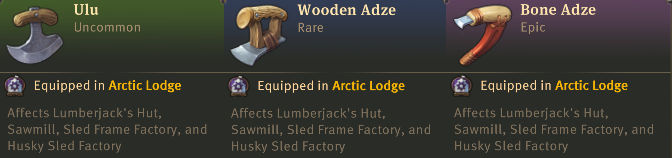
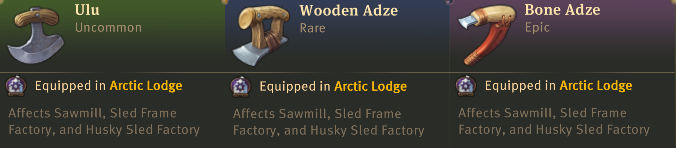
1

diff --git a/item_overhaul.md b/item_overhaul.md
@@ -1338,11 +1338,11 @@
 - <details><!-- Arctic Lumberjack/Charcoal Kiln -->
   <summary><img src="./doc/item_overhaul/lodge/icon_coal_wood.png" alt="If you are reading this, there is an error." width="20" /> Arctic Lumberjack/Charcoal Kiln</summary>
 
-  Arctic Lumberjack will be removed from the following Items
+  The following items no longer affect the Arctic Lumberjack Huts
 
     <img src="./doc/item_overhaul/lodge/adzes.png" alt="If you are reading this, there is an error." />
 
-  The following items now affect Arctic Lumberjack Huts and Charcoal Kilns, and can now be used in all socket buildings.
+  The following items now affect Arctic Lumberjack Huts and Charcoal Kilns, therefore they can now be used in all socket buildings.
 
     <img src="./doc/item_overhaul/lodge/forest_tools.png" alt="If you are reading this, there is an error." />
     <img src="./doc/item_overhaul/lodge/saws.png" alt="If you are reading this, there is an error." />
